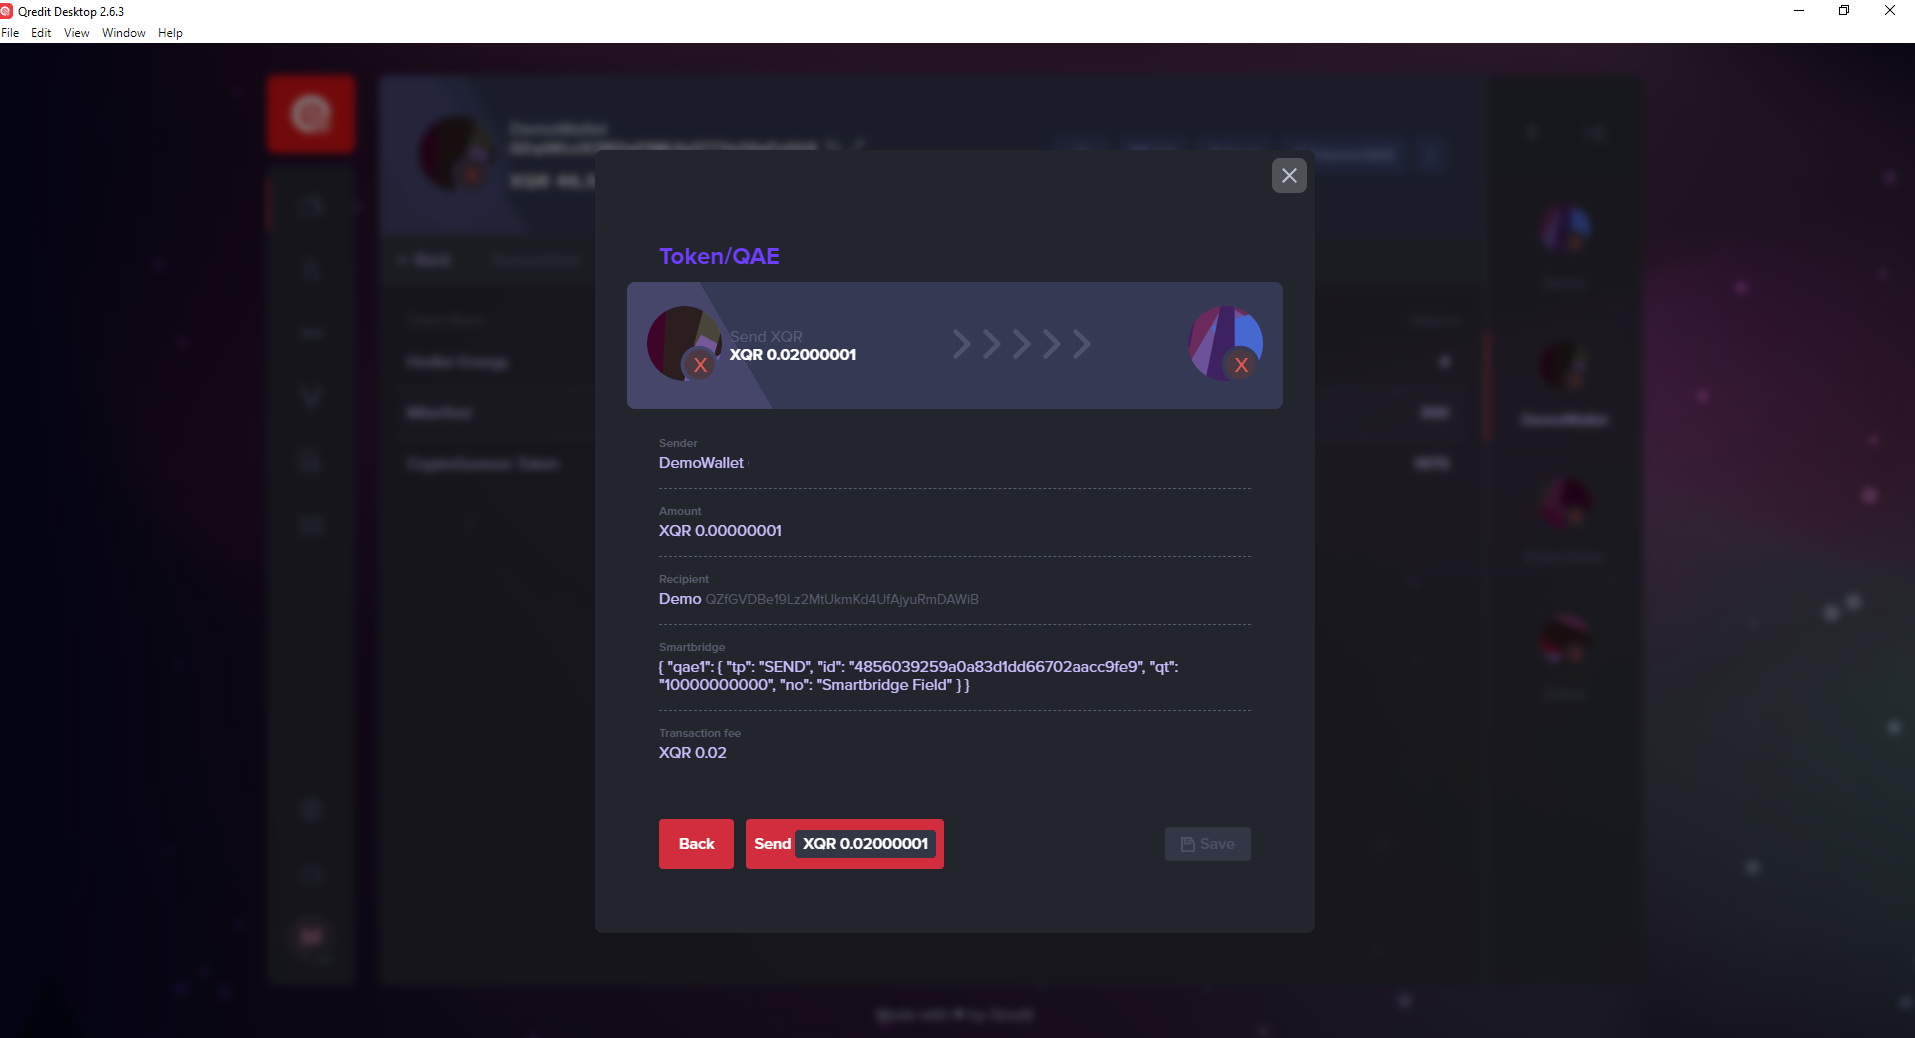
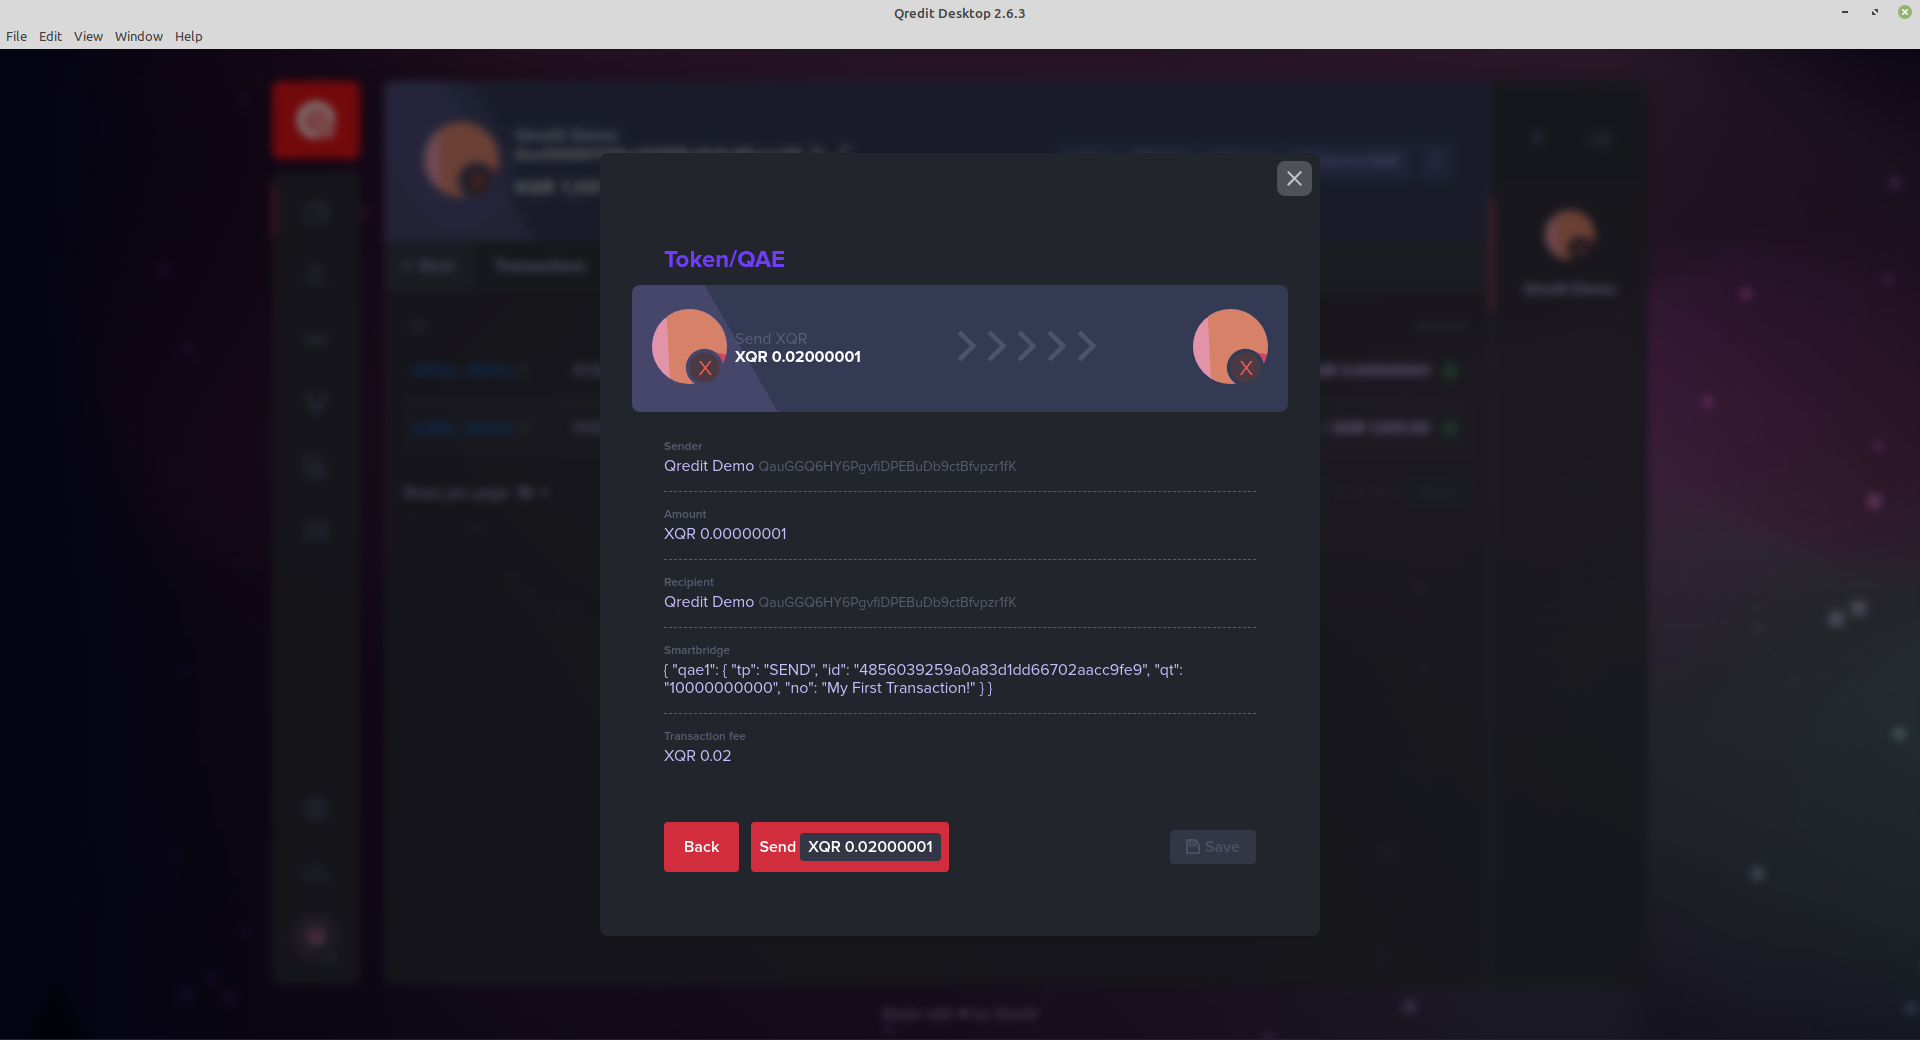
WIP

diff --git a/docs/qae/token-interaction.md b/docs/qae/token-interaction.md
@@ -17,8 +17,7 @@ The cost of a Genesis Transaction, is 1.000,02 XQR. Make sure you have this in y
 First, go to the QAE Interaction Screen, and select ```create new token (GENESIS)```.
 
 ![QAE Interaction Screen](./assets/token-interaction/token-qae-button.png)
-![QAE Interaction Screen](./assets/token-interaction/token-qae-button2.png)
-![Select Transaction Type](./assets/token-interaction/select-tx-type.png)
+![Select GENESIS Transaction Type](./assets/token-interaction/genesis-select.png)
 
 A form will appear, where you can input your Token specific information. 
 
@@ -30,20 +29,43 @@ Token Symbol (Ticker)                   The ticker or abbreviation you  want you
 Token Amount                            The amount of Tokens you want to create. This will be your total supply
 Token Decimals                          The amount of decimals in what your tokens can be divided
 Token URI (optional)                    ?
-Token Note (optional)                   This is a note that you can send with your transaction. Similair to the Qredit Smartbridge
+Token Note (optional)                   This is a note that you can send with your transaction. Similar to the Qredit Smartbridge
 Passphrase (or Encryption Password)     The Private key of the wallet. This is used to sign the transaction
 ```
 
 When you have filled in and double checked all your information, press ```Next```. You will go to a confirmation screen. Make sure everything is filled in as you wish. After confirming, your transaction will be made, and can not be changed. If all is correct, select ```Send 1000.02 XQR```. Now, your transaction will be send to the Qredit Blockchain. 
 
-Within a few minutes, your transaction will be confirmed. You will now have your freshly minted Tokens into your wallet!
+![Genesis Confirmation Screen](./assets/token-interaction/genesis-confirm.png)
+
+After a few confirmation (usually within minutes), your transaction will be confirmed. You will now have your freshly minted Tokens into your wallet!
 
 
 ## Sending a QAE token (SEND transaction)
-![QAE Interaction Screen](./assets/token-interaction/token-qae-button.png)
-![Select Transaction Type](./assets/token-interaction/select-tx-type.png)
-![Send Token-QAE Button](./assets/token-interaction/send-form.png)
-![Confirmation Screen](./assets/token-interaction/send-confirm.png)
 
+First, go to the QAE Interaction Screen, and select ```Send token (SEND)```.
+
+![QAE Interaction Screen](./assets/token-interaction/token-qae-button.png)
+![Select SEND Transaction Type](./assets/token-interaction/send-select.png)
+
+A form will appear, where you can input which Token you want to send (select the dropdown to see all tokens that are present in the wallet). 
+
+![Send Token-QAE Button](./assets/token-interaction/send-form.png)
+
+```json
+Select Token                            Which Token you want to send. Select the dropdown to see all tokens that are present in the wallet
+Token Amount                            The amount of Tokens you want to transfer
+Token Note (optional)                   This is a note that you can send with your transaction. Similar to the Qredit Smartbridge
+Recipient                               The Address of the person you want to send your tokens to
+Passphrase (or Encryption Password)     The Private key of the wallet. This is used to sign the transaction
+```
+
+When you have filled in and double checked all your information, press ```Next```. You will go to a confirmation screen. Make sure everything is filled in as you wish. After confirming, your transaction will be made, and can not be changed. If all is correct, select ```Send 0.02000001 XQR```. Now, your transaction will be send to the Qredit Blockchain. 
+
+![Send Confirmation Screen](./assets/token-interaction/send-confirm.png)
+
+After a few confirmations (usually within minutes), your token wallet will be deducted, and the Recipient of the transaction will see his token balance increased!
 
 ## Burning a QAE token (BURN transaction)
+
+
+
